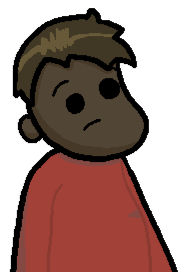
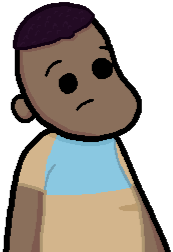
feat: novos personagens

diff --git a/src/fase1/fase1.js b/src/fase1/fase1.js
@@ -228,6 +228,22 @@ if (window.fase1Initialized) {
       "player4"
     )
   );
+  charactersGrid.appendChild(
+    createCharacterCard(
+      "5",
+      "Personagem 5",
+      "assets/personagem/personagem5Big.png",
+      "player5"
+    )
+  );
+  charactersGrid.appendChild(
+    createCharacterCard(
+      "6",
+      "Personagem 6",
+      "assets/personagem/personagem6Big.png",
+      "player6"
+    )
+  );
 
   characterSelect.appendChild(charactersGrid);
 
@@ -918,6 +934,14 @@ if (window.fase1Initialized) {
       frameWidth: 64,
       frameHeight: 64,
     });
+    this.load.spritesheet("player5", "assets/fase1/players/player5.png", {
+      frameWidth: 64,
+      frameHeight: 64,
+    });
+    this.load.spritesheet("player6", "assets/fase1/players/player6.png", {
+      frameWidth: 64,
+      frameHeight: 64,
+    });
     this.load.spritesheet(
       "personagemDialogo1",
       "assets/dialogos/personagemDialogo1.png",
@@ -945,6 +969,22 @@ if (window.fase1Initialized) {
     this.load.spritesheet(
       "personagemDialogo4",
       "assets/dialogos/personagemDialogo4.png",
+      {
+        frameWidth: 225,
+        frameHeight: 300,
+      }
+    );
+    this.load.spritesheet(
+      "personagemDialogo5",
+      "assets/dialogos/personagemDialogo5.png",
+      {
+        frameWidth: 225,
+        frameHeight: 300,
+      }
+    );
+    this.load.spritesheet(
+      "personagemDialogo6",
+      "assets/dialogos/personagemDialogo6.png",
       {
         frameWidth: 225,
         frameHeight: 300,
@@ -1696,6 +1736,10 @@ if (window.fase1Initialized) {
         dialogCharacterKey = "personagemDialogo3";
       } else if (selectedCharacter === "player4") {
         dialogCharacterKey = "personagemDialogo4";
+      } else if (selectedCharacter === "player5") {
+        dialogCharacterKey = "personagemDialogo5";
+      } else if (selectedCharacter === "player6") {
+        dialogCharacterKey = "personagemDialogo6";
       } else {
         dialogCharacterKey = "personagemDialogo1"; // Fallback
         console.warn(

diff --git a/assets/fase1/style.css b/assets/fase1/style.css
@@ -262,7 +262,6 @@ body::before {
     width: 90%;
     max-width: 1200px;
     max-height: 85vh; /* Limita a altura para garantir que caiba na tela */
-    overflow-y: auto; /* Permite rolagem se necessário */
     background: rgba(0, 0, 0, 0.8);
     border: 2px solid #6c8fd6;
     border-radius: 10px;
@@ -301,17 +300,23 @@ body::before {
     letter-spacing: 2px;
 }
 
-/* Grid de personagens - ajustado para melhor responsividade */
+/* Grid de personagens - configurado para scroll horizontal apenas */
 .characters-grid {
-    display: grid;
-    grid-template-columns: repeat(auto-fit, minmax(230px, 1fr)); /* Reduzido para caber melhor */
-    gap: 15px; /* Espaço reduzido entre cards */
+    display: flex; /* Alterado para flex para melhor controle horizontal */
+    flex-wrap: nowrap; /* Impede que os itens quebrem para a próxima linha */
+    gap: 15px; /* Espaço entre cards */
     margin-bottom: 20px;
-    justify-content: center;
+    overflow-x: auto; /* Permite rolagem horizontal */
+    overflow-y: hidden; /* Impede rolagem vertical */
+    padding-bottom: 10px; /* Espaço para a barra de rolagem */
+    scroll-snap-type: x mandatory; /* Melhora experiência de rolagem */
+    width: 100%;
 }
 
 /* Cards de personagem - ajustes de tamanho */
 .character-card {
+    flex: 0 0 260px; /* Largura fixa, não encolhe, não cresce */
+    scroll-snap-align: start; /* Alinha cards quando rolar */
     background: rgba(35, 35, 60, 0.8);
     border: 2px solid #4a6eb5;
     border-radius: 8px;
@@ -714,6 +719,7 @@ canvas {
     .characters-grid {
         grid-template-columns: repeat(auto-fit, minmax(180px, 1fr));
         gap: 10px;
+        overflow-x: scroll;
     }
     
     #logo-container h1 {
